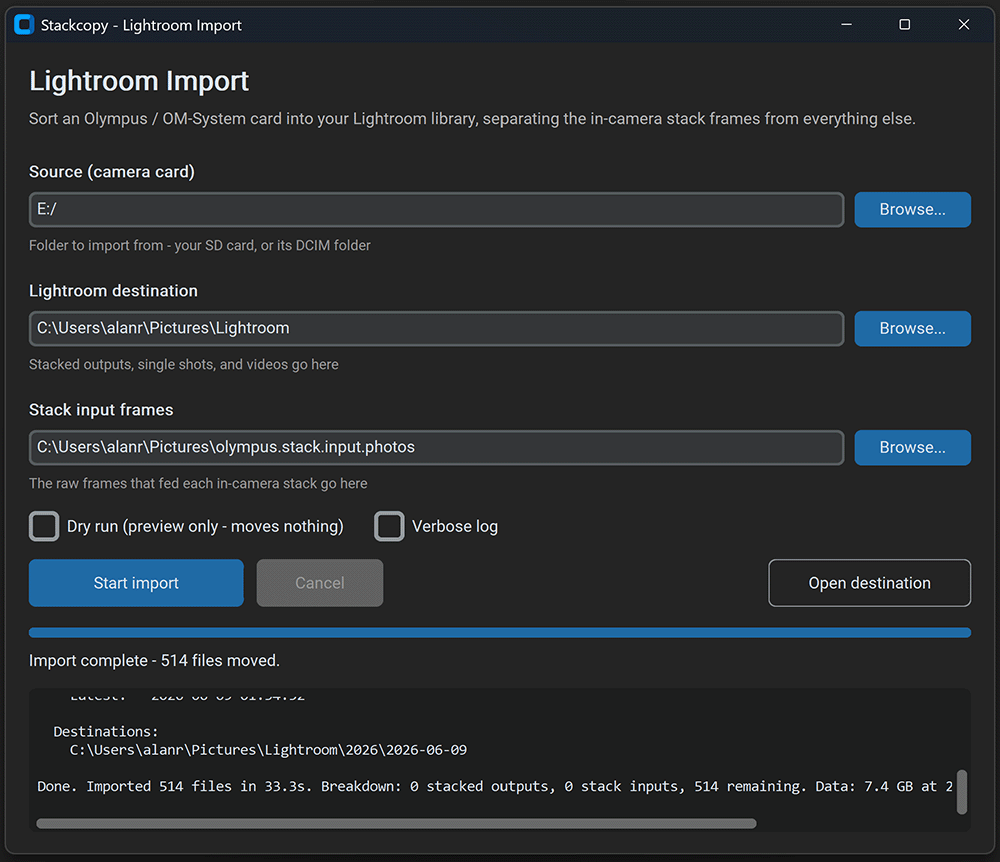
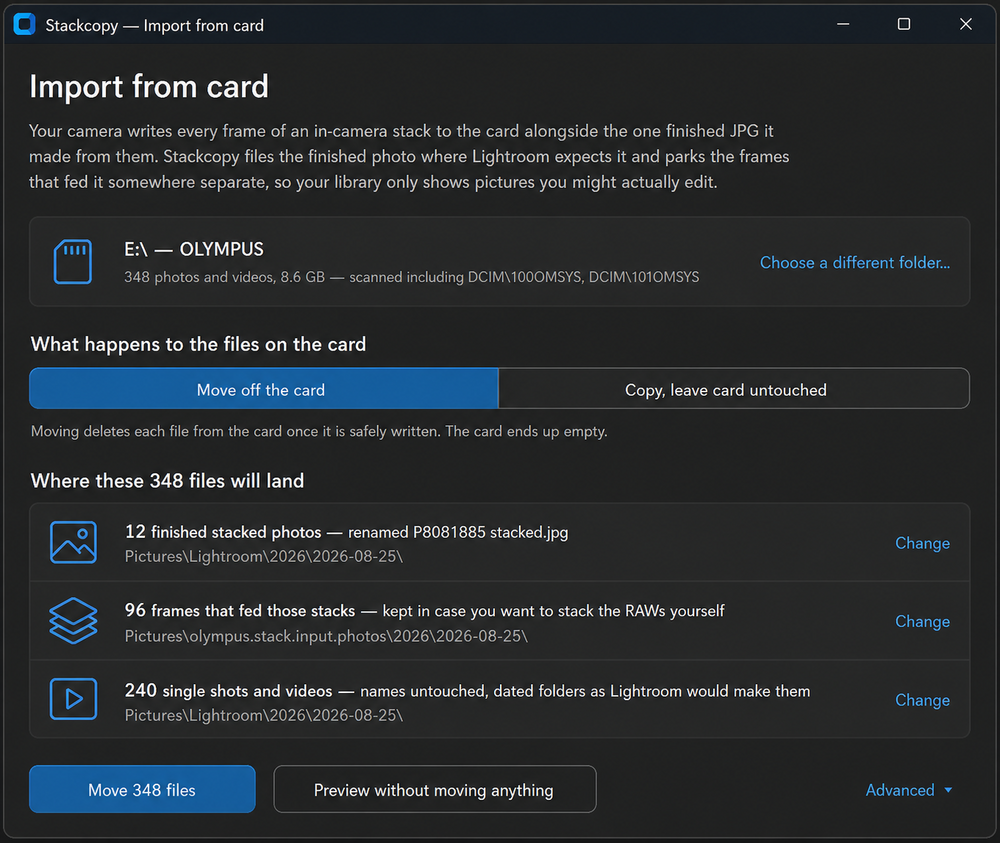
Document the plan-first GUI

diff --git a/README.md b/README.md
@@ -50,32 +50,43 @@ Supported video extensions for `--lightroomimport`: `.mov`, `.mp4`, `.m4v`, `.av
 
 ## Graphical interface (GUI)
 
-There is a simple GUI for the `--lightroomimport` workflow. It asks for the source and the two destination folders, then shows a progress bar while it works. If you already have a Lightroom catalog, you probably want to set this to the directory you store your images - it imports your media into the same directory structure that Lightroom uses, creating a directory for each day. You can also choose any other folder and it'll start creating daily media directories there.
+The GUI explains the complete `--lightroomimport` workflow before anything is
+moved. Choose a card and it scans in the background, counts finished stack
+photos, their source frames, and ordinary photos/videos, then shows the dated
+folder where each group will land. If you already have a Lightroom catalog,
+set the Lightroom destination to the directory where you store its images;
+Stackcopy creates the same year/day hierarchy Lightroom would make. The raw
+frames that fed in-camera stacks stay in a separate archive so they do not
+clutter the library.
 
-![The Stackcopy GUI after a completed import, showing the source and destination folders, options, progress bar, and a live log](docs/gui.png)
+![The Stackcopy GUI showing a scanned card, move or copy mode, and the three planned destinations before import](docs/gui.png)
 
 ### Using it
 
-1. **Launch it** — open the downloaded app
-2. **Pick the source** — the folder to import from (your SD card, or its `DCIM`
-   folder). It's scanned recursively.
-3. **Check the destinations** — the **Lightroom destination** (where stacked
-   outputs, single shots, and videos go) and the **Stack input frames** folder
-   (where the raw frames that fed each stack go) come pre-filled with the same
-   defaults the command line uses. The GUI remembers the last values you used
-   and restores them the next time you open it. Click **Browse...** to change
-   either one.
-4. **Optionally check _Dry run_** to preview every move without doing anything —
-   the button changes to **Preview (dry run)**. Check **Verbose log** for
-   per-file detail, **Show stack debug output** for stack-detection diagnostics,
-   or **Leave files on card** to copy into the destination folders without
-   deleting the source files.
-5. **Click _Start import_.** A progress bar and live log show each file as it is
-   moved or copied, with a running `done / total` count. You can **Cancel** at
-   any time — files are processed one at a time and the import is re-runnable,
-   so stopping is safe. If the destination is low on space, it asks before
-   continuing.
-6. When it finishes, **Open destination** opens your Lightroom folder.
+1. **Launch it** — open the downloaded app.
+2. **Choose the source card** — select the card itself or its `DCIM` folder.
+   Stackcopy scans recursively and shows the media count, total size, and camera
+   subfolders it found.
+3. **Choose move or copy** — **Move off the card** is the default and removes
+   each source only after its destination is safely written. **Copy, leave card
+   untouched** maps to `--leave-on-card` and preserves everything on the card.
+4. **Review where the files will land** — the three rows separate finished
+   stacked photos, the frames that fed those stacks, and ordinary shots/videos.
+   Click **Change** on a row to choose a different base folder. These choices
+   are remembered in `gui-state.json` as before.
+5. **Import or preview** — the main button includes the planned file count.
+   **Preview without moving anything** runs the same plan as a dry run. The
+   collapsed **Advanced** section contains Verbose log, Detect stacks, and Show
+   stack debug output.
+6. **Follow the import** — the running view names the phase and current file's
+   role, estimates time remaining, and counts stacked photos, stack frames,
+   singles/video, and problems separately. **Stop after this file** is safe:
+   operations happen one file at a time and a later run picks up the rest.
+   Expand **Show detailed log** only when you need the raw CLI output or want to
+   copy it.
+7. When it finishes, use **Open Lightroom folder** or **Import another card**.
+   If a removable card is empty after a successful move, Stackcopy reminds you
+   to format it in the camera before the next shoot.
 
 Files land in exactly the same place as the `--lightroomimport` command — see
 [Where files go](#where-files-go).
@@ -300,6 +311,7 @@ Date filters work with all modes and use filesystem modification dates. In `--li
 - `-v` / `--verbose` — Show detailed info about each file processed
 - `-i` / `--interactive` — Ask for confirmation before moving (`--lightroomimport` only)
 - `--leave-on-card` — Copy during `--lightroomimport` instead of moving, leaving source files in place
+- `--plan-json` — With `--lightroomimport`, scan and emit one JSON import plan without moving or copying files
 - `--force` — Overwrite existing files without asking
 - `-j N` / `--jobs N` — Set the parallel worker count. `--copy` and `--stackcopy` default to one worker unless this option is supplied. During a normal run, `--lightroom` automatically chooses up to 4 workers when its effective worker count is still 1. `--lightroomimport` always forces sequential execution to preserve oldest-first order. Values above 2× the CPU count are capped.
 - `--debug-stacks` / `--debugstacks` — Show detailed diagnostics for stack detection

diff --git a/ChangeLog.md b/ChangeLog.md
@@ -1,5 +1,19 @@
 # Change Log
 
+## **Unreleased**
+
+### Added
+
+- Added `--plan-json` for `--lightroomimport`: it runs the real scanner and planner without changing files, then emits one JSON object containing counts, bytes, dated destinations, scanned source subfolders, and best-effort removable/empty-card information.
+- Progress sentinels now identify `stack_output`, `stack_input`, and `other` roles and carry the associated finished stack name, allowing front-ends to explain the current file and maintain separate counters.
+
+### Changed
+
+- Rebuilt the customtkinter GUI around a pre-run import plan. The idle window now explains in-camera stacking, presents the source as a scanned card, makes move-versus-copy an explicit mode, and shows where finished stacks, source frames, and ordinary media will land.
+- Replaced the dry-run and leave-on-card checkboxes with a dedicated non-destructive preview button and a segmented move/copy control. Verbose and stack-detection options now live under a persisted Advanced disclosure.
+- Replaced the always-visible empty log with role-aware running progress, ETA/throughput metadata, four counter cards, safe-stop guidance, and a collapsed copyable detailed log. Success, nothing-found, degraded, cancelled, low-space, and launch-failure outcomes now share one result area.
+- Updated the GUI documentation and screenshot to match the plan-first workflow.
+
 ## **1.6.0 - 2026-08-24**
 
 ### Added
